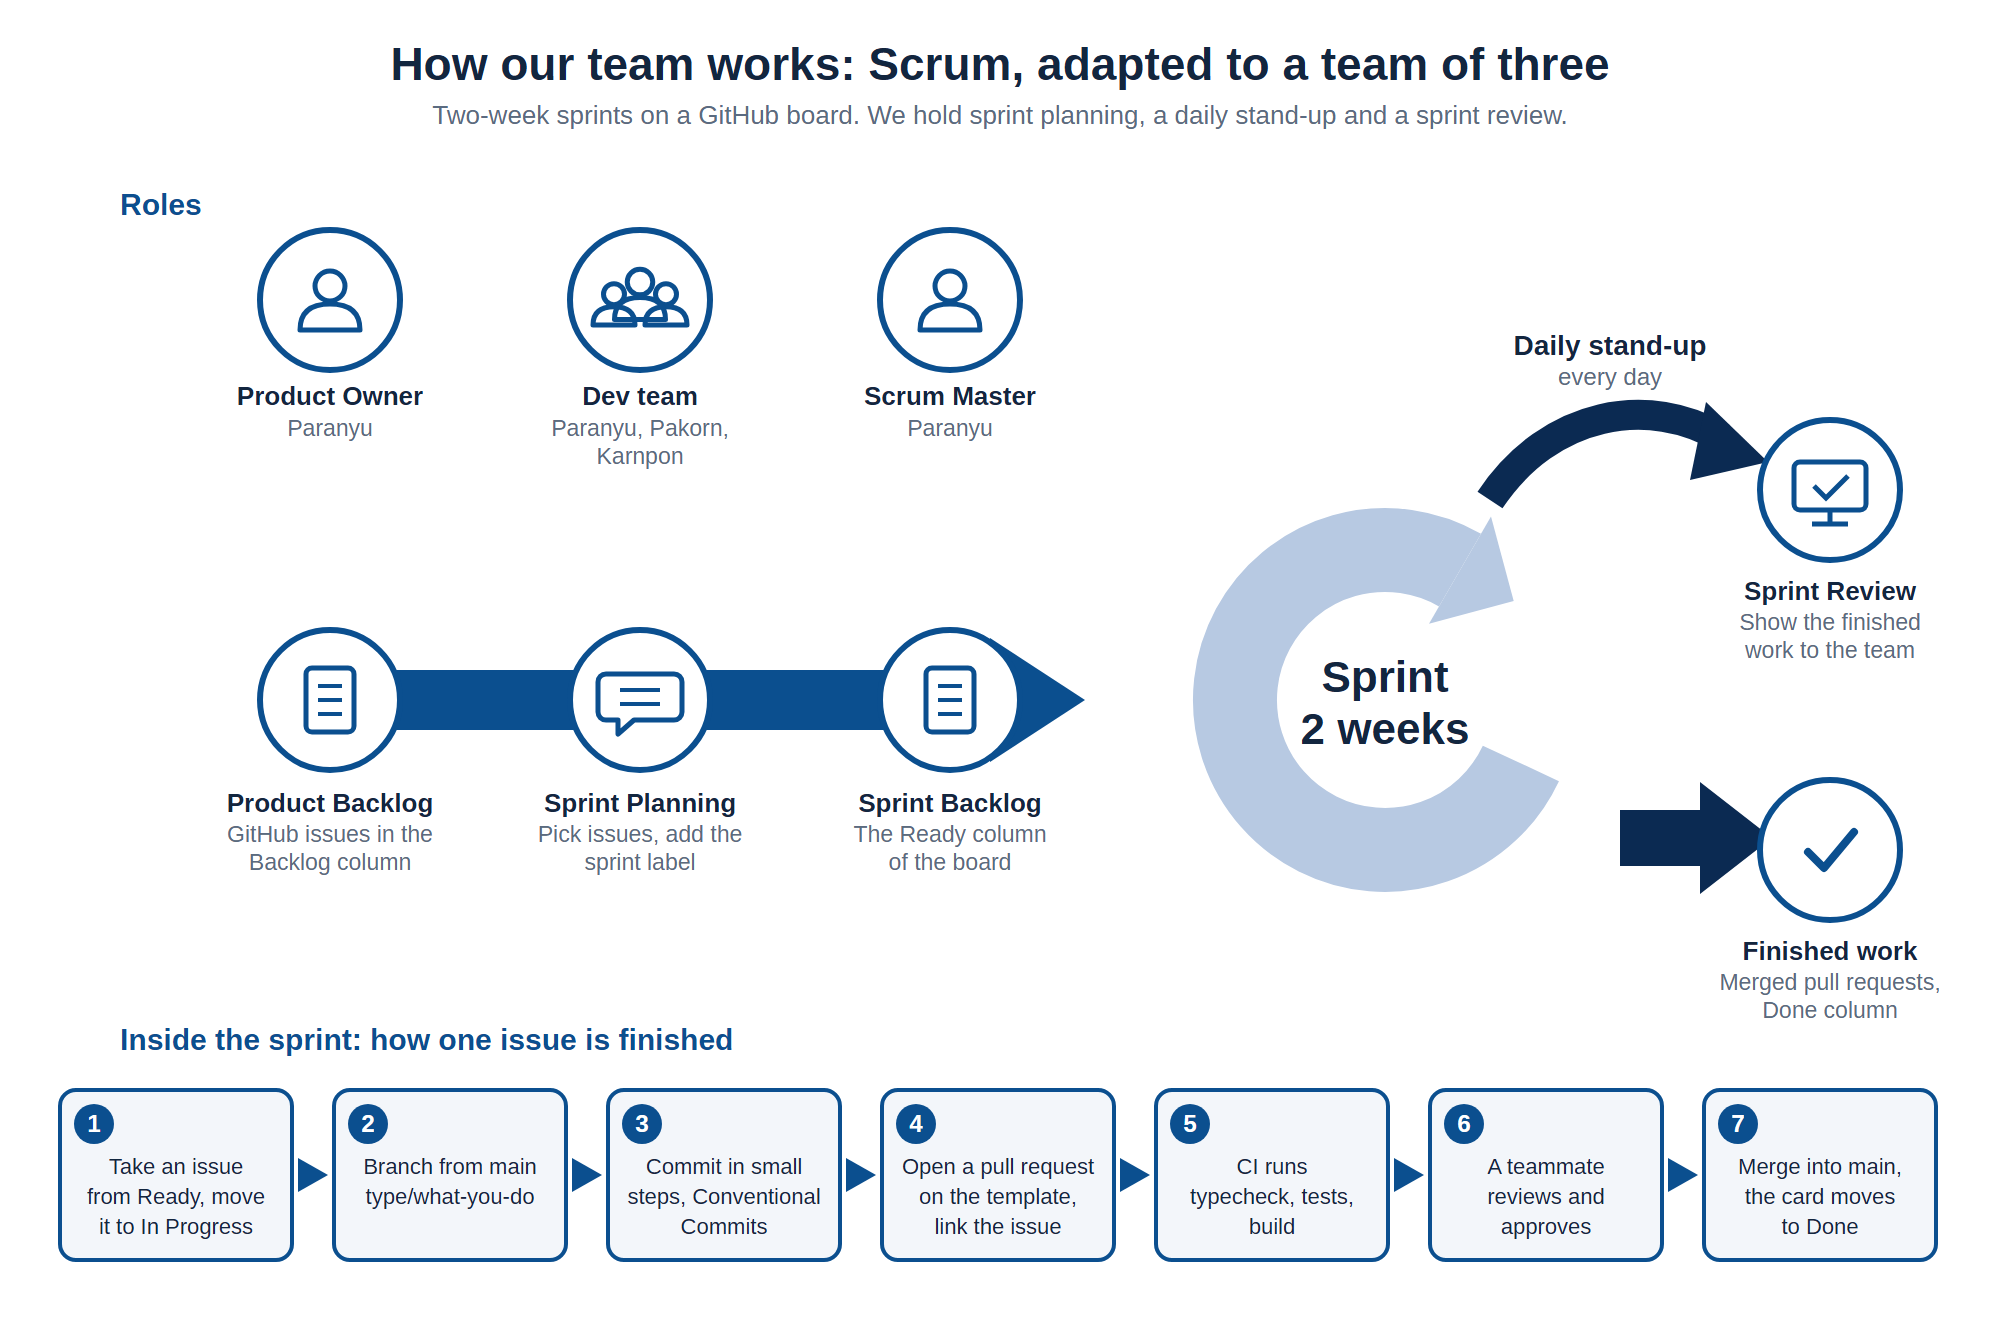
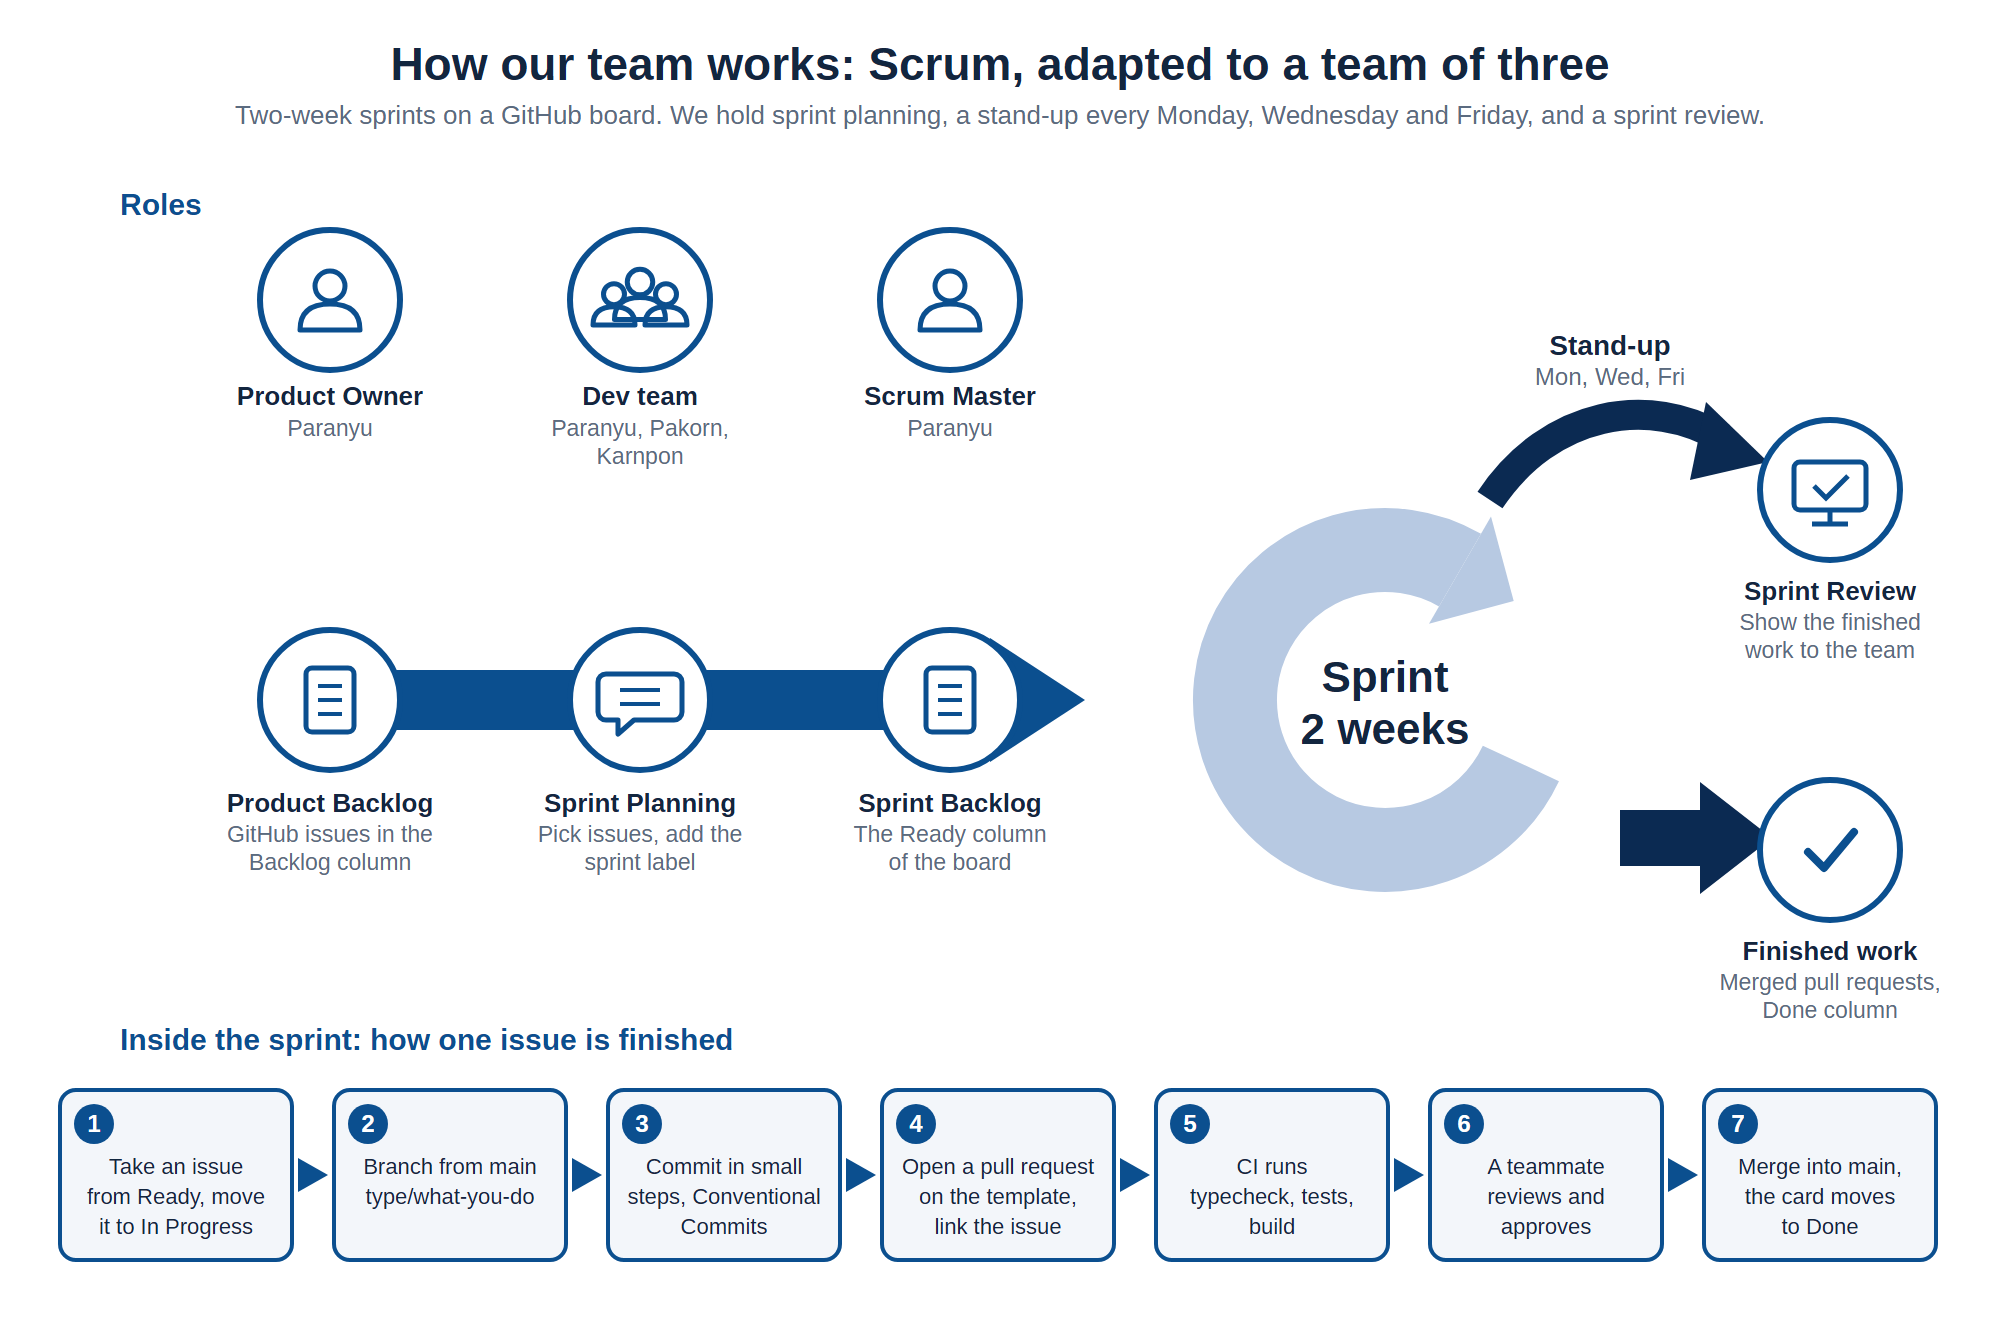
docs: show the stand-up on Monday, Wednesday and Friday

Changed region(s): [[0.124, 0.0621, 0.868, 0.0932], [0.744, 0.2485, 0.868, 0.3106]]

diff --git a/docs/scrum-workflow.md b/docs/scrum-workflow.md
@@ -24,7 +24,7 @@ One person holds two roles, so there is no second view on priorities. Reviews of
 | Sprint planning meeting | The team picks issues for the sprint, adds the sprint label and moves them to the Ready column | The `sprint: ...` label on an issue and the Ready (Sprint backlog) column |
 | Sprint backlog | The issues in the Ready column | The project board |
 | Sprint | Two weeks. The labelled sprints ran 10 Sep to 24 Sep and 25 Sep to 9 Oct | The two `sprint:` labels |
-| Daily stand-up | A short check-in every day on what is done, what is next and what blocks | Held by the team, no trace in the repository |
+| Stand-up | A short check-in on what is done, what is next and what blocks, every Monday, Wednesday and Friday | Held by the team, no trace in the repository |
 | Sprint review | At the end of the sprint the team shows the finished work | Held by the team, no trace in the repository |
 | Finished work | Pull requests merged into `main`, with the card in the Done column | Merged pull requests and the Done column |
 
@@ -47,5 +47,6 @@ The strip at the bottom of the diagram is what happens inside a sprint for each 
 - **No sprint retrospective.** The team does not hold one, so there is no regular moment to change how we work. This is the biggest gap against Scrum.
 - **One person is Product Owner and Scrum Master.** See the roles above.
 - **Sprint labels stop after 9 October.** Later issues have none, so the board does not show which sprint they belong to. If the sprints went on, the labels should too.
+- **The stand-up is three times a week, not daily.** Scrum asks for a daily one. On the days without a stand-up, someone who is blocked has to wait or ask in the chat.
 - **The two-week length is a team choice.** Scrum allows one to four weeks.
 - **Reviews are a team rule, not enforced.** GitHub does not block a merge without approval, because `main` has no branch protection.
